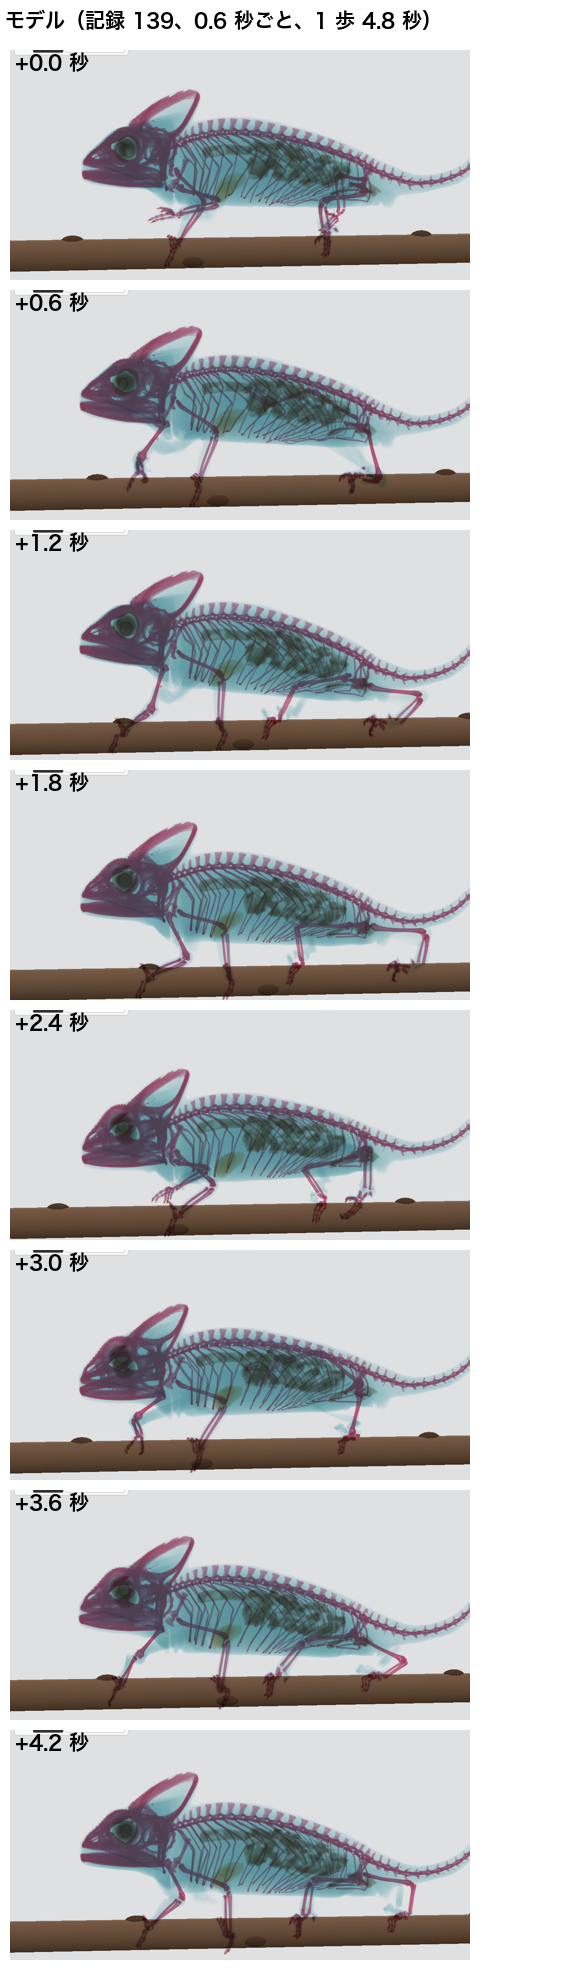
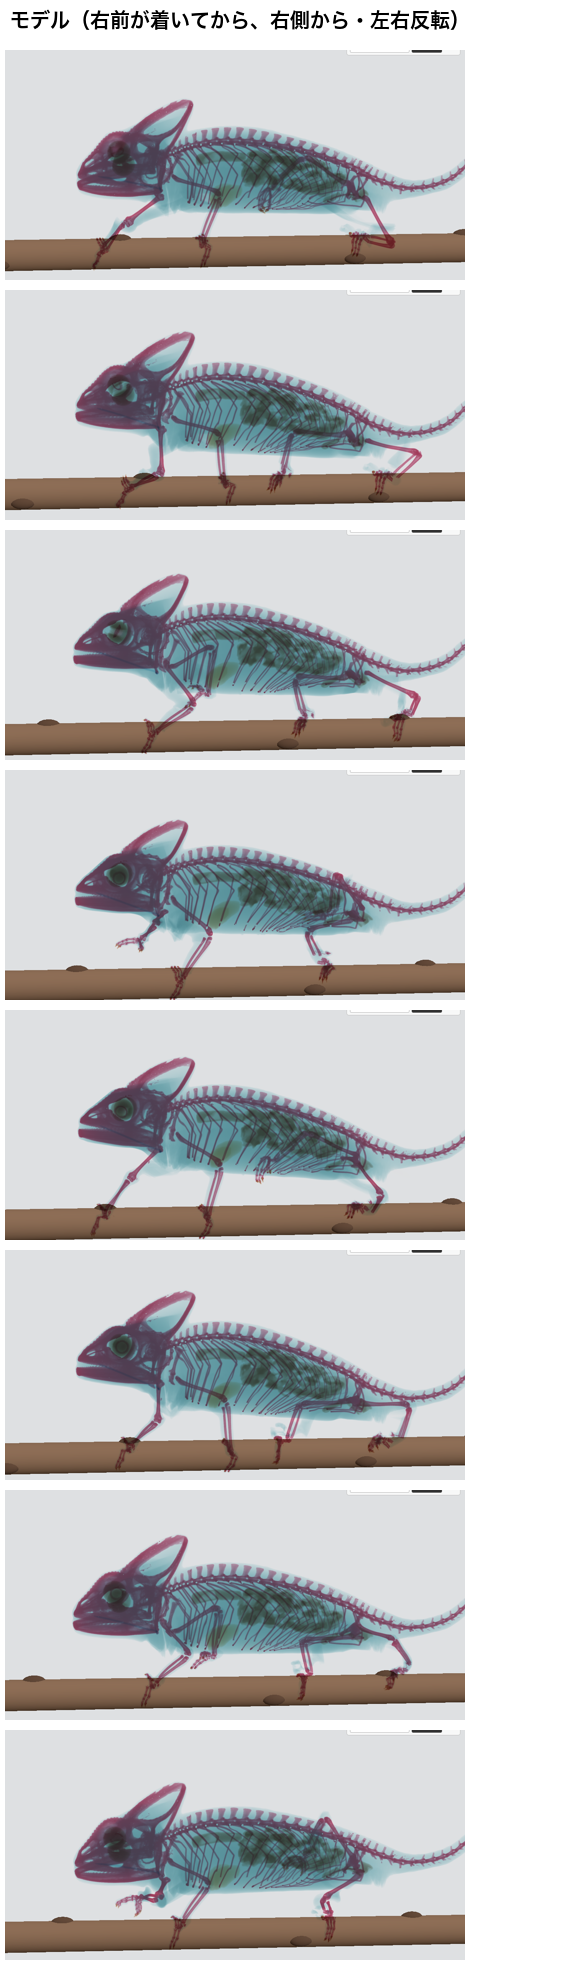
カメレオン: 運ぶ間の足首・手首を実物の通り道で動かし、撮る道具の時刻のずれを直す（記録 140）

diff --git a/水槽/scenes/specimen/src/chameleon-walk.js b/水槽/scenes/specimen/src/chameleon-walk.js
@@ -129,6 +129,15 @@ const lerpLine = (xs, ys, x) => { let i = 0; while (i < xs.length - 2 && x > xs[
 // C record 118 (2026-10-31, the producer: 「この方針で 1〜4 を入れて、輪切りの絵と採点表で見せて下さい。」; the rule: the same species first): the hind
 // knee's line (Higham & Jayne 2004a, straightest at 0.52 of the stride) and the tibia folding in "on the verge of lift-off" (the XROMM frame) are two
 // moments, so the fold is asked only over the last FRONT_FOLD of the stance (C record 117: from 0.8 it still held the knee bent before lift-off).
+// C record 140 (?swingPath=video, ?swingUp=<k>): the swing's path read off the adult's floor walk (Wimberly et al., near side, every 0.1 s): the hind
+// ankle 305.3 → 306.9 s against the hip, the fore wrist 307.7 → 309.1 s against the shoulder. fwd: the share of the way from lift-off to footfall;
+// up: the rise above the straight line between them, in snout–hip lengths. The ankle is up at the hip's height by 0.3 of the swing and goes forward at
+// that height; the wrist rises about 0.1 at once. (The model's angle-laid swing kept the foot low over the first half and rose late.)
+const SWING_PATH = (new URLSearchParams(location.search).get("swingPath") ?? "video") === "video" ? {
+  hind: { s: [0, 0.06, 0.19, 0.31, 0.44, 0.56, 0.69, 0.81, 0.94, 1], fwd: [0, 0.05, 0.25, 0.37, 0.66, 0.79, 0.84, 0.97, 1, 1], up: [0, 0.02, 0.10, 0.135, 0.16, 0.157, 0.147, 0.138, 0.10, 0] },
+  fore: { s: [0, 0.07, 0.21, 0.36, 0.5, 0.64, 0.79, 0.93, 1], fwd: [0, 0.03, 0.175, 0.34, 0.54, 0.72, 0.92, 1, 1], up: [0, 0.03, 0.09, 0.09, 0.10, 0.09, 0.07, 0.02, 0] } } : null;
+const SWING_UP_K = Number(new URLSearchParams(location.search).get("swingUp") ?? 1.3),   // 1.3: the rise measured above the chord leaves the ankle 0.05 low against the hip (score_swing 27 → 30/36)
+  SNOUT_HIP_MM = 123.3;
 const FRONT_FOLD = Math.min(0.95, Math.max(0.01, Number(new URLSearchParams(location.search).get("frontFold") ?? 0.05)));
 const FRONT_FORE_HOLD = Number(new URLSearchParams(location.search).get("frontHold") ?? 0.7);   // C record 126: the humerus held out until this share of the stance
 // C record 133 (2026-11-01, the producer: 「後ろ脚が着いている間のコマを同じ動画の 12 秒以降から足して読み、後ろ脚の膝のずれを直して下さい。」): the adult on a
@@ -903,6 +912,15 @@ export function createChameleonWalk(model, holder) {
             target = blend(lay.ankle, lay0.ankle, s0.ankle, lay1.ankle, s1.ankle);
             kneeAt = blend(lay.knee, lay0.knee, s0.knee, lay1.knee, s1.knee);
             contact.copy(blend(lay.sole, lay0.sole, off, lay1.sole, on));
+            if (SWING_PATH) {
+              // C record 140: the wrist/ankle along the adult's own path (SWING_FWD: the share of the way forward, SWING_UP: the rise above the chord,
+              // snout–hip lengths), between the stance's ends at lift-off and at footfall; across the body it stays as laid out.
+              const P = limb.hind ? SWING_PATH.hind : SWING_PATH.fore, fw = lerpLine(P.s, P.fwd, s), upB = lerpLine(P.s, P.up, s) * SWING_UP_K;
+              const a0p = s0.ankle, a1p = s1.ankle, want = a0p.clone().lerp(a1p, fw);
+              want.addScaledVector(UP, (a0p.dot(UP) + (a1p.dot(UP) - a0p.dot(UP)) * s) - want.dot(UP) + upB * SNOUT_HIP_MM * MM);
+              const d = want.clone().sub(target); d.addScaledVector(LEFT, -d.dot(LEFT));
+              target.add(d); contact.add(d); kneeAt.addScaledVector(d, 0.5);
+            }
             // above the branch's top while over it
             const rel = contact.clone().sub(branchCentre), top = BRANCH_RADIUS + 0.5 * MM - rel.dot(UP);
             if (Math.abs(rel.dot(LEFT)) < BRANCH_RADIUS * 1.2 && top > 0 && s > 0.1 && s < 0.9) { contact.addScaledVector(UP, top); target.addScaledVector(UP, top); }

diff --git a/blender/ct_body_pipeline/page_check/score/score_swing.py b/blender/ct_body_pipeline/page_check/score/score_swing.py
@@ -1,0 +1,27 @@
+"""運ぶ間の通り道の物差し（記録 140）: score_swing.py <_joints.json>
+実物: Wimberly ら 2021 の床の歩き（手前の後ろ脚の足首 305.3→306.9 秒・股から、手前の前脚の手首 307.7→309.1 秒・肩から、0.1 秒ごと）。
+運ぶ間を 0.1 ごとに 10 に分け、足首（手首）の前後と上下（股・肩から、÷ 吻端–股関節）を比べる。合格の幅 0.05 L"""
+import json,sys,numpy as np
+D='/Users/shoui/transparent-aquarium/画像サンプル収集/エボシカメレオン/収集_2026-10-26/関節の動き/場面1_ZA_304-310s.json'
+C=json.load(open(D))['コマ']; L=123.3
+def real(limb,root,pt,t0,t1):
+    xs=[];F=[];U=[]
+    for x in C:
+        t=x['時刻_秒']
+        if t0-0.05<=t<=t1+0.05 and x[limb].get(pt) and x.get(root):
+            a=x[limb][pt];h=x[root];l=x['計算']['尺度_px']; xs.append((t-t0)/(t1-t0)); F.append(-(a[0]-h[0])/l); U.append(-(a[1]-h[1])/l)
+    return np.array(xs),np.array(F),np.array(U)
+R={'hR':real('手前後脚','股関節','足首',305.3,306.9),'fR':real('手前前脚','肩','手首',307.7,309.1)}
+rows=json.load(open(sys.argv[1])); ok=n=0
+for k,nm in [('hR','後ろ脚 足首'),('fR','前脚 手首')]:
+    st=[x[k]['st'] for x in rows]; offs=[i for i in range(1,len(rows)) if not st[i] and st[i-1]]
+    i0=offs[0]; i1=[i for i in range(i0,len(rows)) if st[i]][0]
+    ms=np.array([(rows[i]['t']-rows[i0-1]['t'])/(rows[i1]['t']-rows[i0-1]['t']) for i in range(i0-1,i1+1)])
+    mF=np.array([rows[i][k]['ankle'][0]/L for i in range(i0-1,i1+1)]); mU=np.array([rows[i][k]['ankle'][1]/L for i in range(i0-1,i1+1)])
+    rs,rF,rU=R[k]
+    for q in np.arange(0.1,0.95,0.1):
+        rf,ru=np.interp(q,rs,rF),np.interp(q,rs,rU); mf,mu=np.interp(q,ms,mF),np.interp(q,ms,mU)
+        for lab,a,b in [('前後',mf,rf),('上下',mu,ru)]:
+            g=abs(a-b)<=0.05; ok+=g; n+=1
+            if '-v' in sys.argv or not g: print(f"{'○' if g else '×'} {nm} {q:.1f} {lab} モデル {a:+.3f} 実物 {b:+.3f}")
+print(f'合格 {ok}/{n}')

diff --git a/blender/ct_body_pipeline/page_check/bake_shape88.py b/blender/ct_body_pipeline/page_check/bake_shape88.py
@@ -20,7 +20,7 @@ src, dst = sys.argv[1], sys.argv[2]
 ROOT = os.path.abspath(os.path.join(os.path.dirname(__file__), '../../..'))
 PROP = os.path.join(ROOT, '水槽/scenes/specimen/assets/private/proposals')
 name = os.path.splitext(os.path.basename(src))[0]
-BAKE_Q = '&bellyTraced=1&arch=0&gait=a&ankleOut=3&wristOut=0&foreShift=0&forePole=old&low=0.32&hjRef=1&foreInw=89&hindAb=75&foreRetr=-11,58,56&gripHind=55&gripFore=60&wFrontH=5&wFrontF=10&foreArm=1&hindShift=6&wRetrH=0.4&tailLen=1&widthFit=0.1&duty=0.6555&stride=95&speed=36.4'   # 記録 99 のときの手足の置き方。記録 138 から胴の腰の前を 1 割細くする（widthFit）。お腹は実物のなぞった線、背骨の弓は今の 0°（記録 112）
+BAKE_Q = '&bellyTraced=1&arch=0&gait=a&ankleOut=3&wristOut=0&foreShift=0&forePole=old&low=0.32&hjRef=1&foreInw=89&hindAb=75&foreRetr=-11,58,56&gripHind=55&gripFore=60&wFrontH=5&wFrontF=10&foreArm=1&hindShift=6&wRetrH=0.4&tailLen=1&widthFit=0.1&duty=0.6555&stride=95&speed=36.4&swingPath=old'   # 記録 99 のときの手足の置き方。記録 138 から胴の腰の前を 1 割細くする（widthFit）。お腹は実物のなぞった線、背骨の弓は今の 0°（記録 112）
 if os.path.abspath(os.path.dirname(src)) != os.path.abspath(PROP):
     os.makedirs(PROP, exist_ok=True); shutil.copyfile(src, os.path.join(PROP, name + '.glb'))
 

diff --git a/blender/ct_body_pipeline/page_check/score/camshot.py b/blender/ct_body_pipeline/page_check/score/camshot.py
@@ -12,7 +12,7 @@ const tgt=sp.clone().lerp(hp,0.35);c.position.copy(tgt).addScaledVector(fw,f*S).
 async def main():
     async with async_playwright() as p:
         b=await browser.launch(p); pg=await b.new_page(viewport={'width':1200,'height':800})
-        await pg.goto(sys.argv[1]); await pg.wait_for_function('document.body.dataset.ready||document.body.dataset.error',timeout=240000)
+        await pg.goto(sys.argv[1] + ('' if 'still=1' in sys.argv[1] else '&still=1')); await pg.wait_for_function('document.body.dataset.ready||document.body.dataset.error',timeout=240000)
         await pg.add_style_tag(content='#status,#tune,#rotate{visibility:hidden!important}')
         a=[float(x) for x in sys.argv[3:7]]+[float(sys.argv[7]) if len(sys.argv)>7 else 14]
         await pg.evaluate(JS,a); await pg.wait_for_timeout(1500); await pg.screenshot(path=sys.argv[2]); await b.close()
